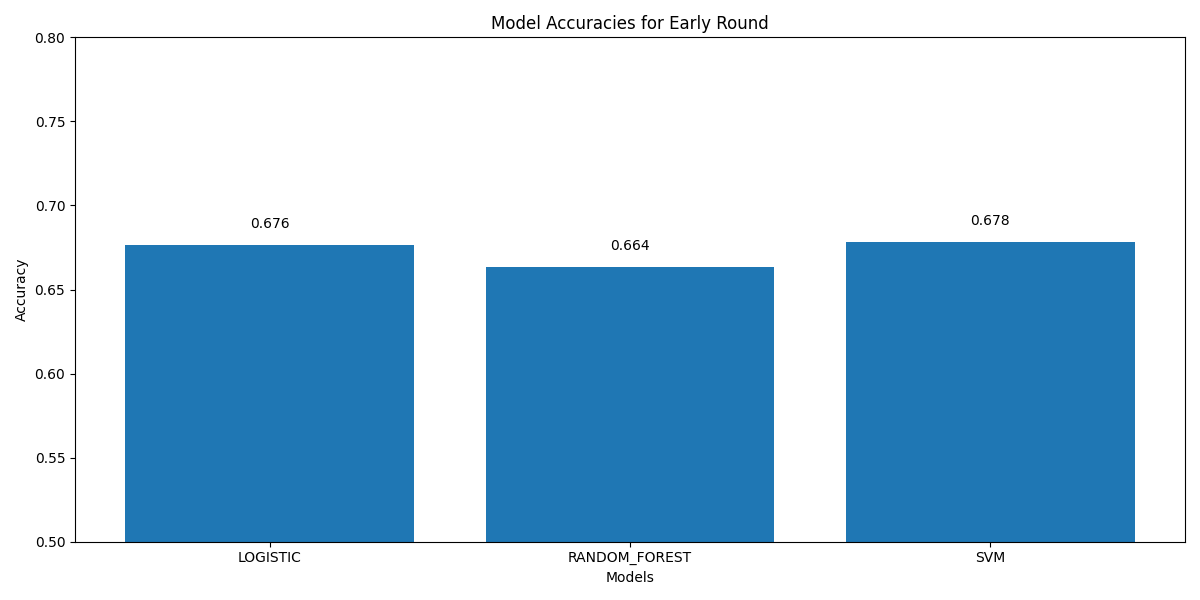
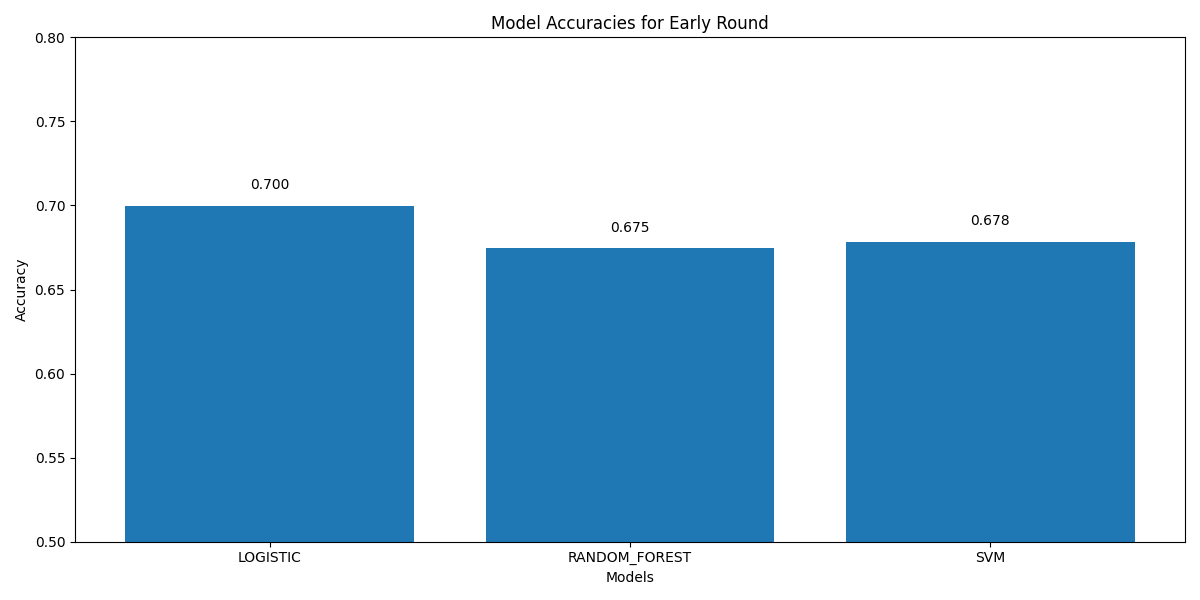
Saving what I have in case AI code breaks it

Changed region(s): [[0.0925, 0.3, 0.37, 0.42], [0.4008, 0.36, 0.6475, 0.45]]

diff --git a/Testing/main.py b/Testing/main.py
@@ -99,22 +99,14 @@ for idx, row in tourney_results.iterrows():
             'Team1_AvgOppPoints': winner_feat['AvgOppPoints'],
             'Team1_SeedNum': winner_feat['SeedNum'],
             'Team1_SeedWin%': seed_results.loc[winner_feat['SeedNum'].astype(int), "WIN%"],
-            'Team1_SeedR64%': seed_results.loc[winner_feat['SeedNum'].astype(int), "R64%"],
-            'Team1_SeedR32%': seed_results.loc[winner_feat['SeedNum'].astype(int), "R32%"],
-            'Team1_SeedS16%': seed_results.loc[winner_feat['SeedNum'].astype(int), "S16%"],
-            'Team1_SeedE8%': seed_results.loc[winner_feat['SeedNum'].astype(int), "E8%"],
-            'Team1_SeedF4%': seed_results.loc[winner_feat['SeedNum'].astype(int), "F4%"],
-            'Team1_SeedF2%': seed_results.loc[winner_feat['SeedNum'].astype(int), "F2%"],
+            'Team1_SeedR1%': seed_results.loc[winner_feat['SeedNum'].astype(int), "R64%"],
+            'Team1_SeedR2%': seed_results.loc[winner_feat['SeedNum'].astype(int), "R32%"],
             'Team2_AvgPoints': loser_feat['AvgPoints'],
             'Team2_AvgOppPoints': loser_feat['AvgOppPoints'],
             'Team2_SeedNum': loser_feat['SeedNum'],
             'Team2_SeedWin%': seed_results.loc[loser_feat['SeedNum'].astype(int), "WIN%"],
-            'Team2_SeedR64%': seed_results.loc[loser_feat['SeedNum'].astype(int), "R64%"],
-            'Team2_SeedR32%': seed_results.loc[loser_feat['SeedNum'].astype(int), "R32%"],
-            'Team2_SeedS16%': seed_results.loc[loser_feat['SeedNum'].astype(int), "S16%"],
-            'Team2_SeedE8%': seed_results.loc[loser_feat['SeedNum'].astype(int), "E8%"],
-            'Team2_SeedF4%': seed_results.loc[loser_feat['SeedNum'].astype(int), "F4%"],
-            'Team2_SeedF2%': seed_results.loc[loser_feat['SeedNum'].astype(int), "F2%"],
+            'Team2_SeedR1%': seed_results.loc[loser_feat['SeedNum'].astype(int), "R64%"],
+            'Team2_SeedR2%': seed_results.loc[loser_feat['SeedNum'].astype(int), "R32%"],
             'Target': 1
         })
         
@@ -125,22 +117,14 @@ for idx, row in tourney_results.iterrows():
             'Team1_AvgOppPoints': loser_feat['AvgOppPoints'],
             'Team1_SeedNum': loser_feat['SeedNum'],
             'Team1_SeedWin%': seed_results.loc[loser_feat['SeedNum'].astype(int), "WIN%"],
-            'Team1_SeedR64%': seed_results.loc[loser_feat['SeedNum'].astype(int), "R64%"],
-            'Team1_SeedR32%': seed_results.loc[loser_feat['SeedNum'].astype(int), "R32%"],
-            'Team1_SeedS16%': seed_results.loc[loser_feat['SeedNum'].astype(int), "S16%"],
-            'Team1_SeedE8%': seed_results.loc[loser_feat['SeedNum'].astype(int), "E8%"],
-            'Team1_SeedF4%': seed_results.loc[loser_feat['SeedNum'].astype(int), "F4%"],
-            'Team1_SeedF2%': seed_results.loc[loser_feat['SeedNum'].astype(int), "F2%"],
+            'Team1_SeedR1%': seed_results.loc[loser_feat['SeedNum'].astype(int), "R64%"],
+            'Team1_SeedR2%': seed_results.loc[loser_feat['SeedNum'].astype(int), "R32%"],
             'Team2_AvgPoints': winner_feat['AvgPoints'],
             'Team2_AvgOppPoints': winner_feat['AvgOppPoints'],
             'Team2_SeedNum': winner_feat['SeedNum'],
             'Team2_SeedWin%': seed_results.loc[winner_feat['SeedNum'].astype(int), "WIN%"],
-            'Team2_SeedR64%': seed_results.loc[winner_feat['SeedNum'].astype(int), "R64%"],
-            'Team2_SeedR32%': seed_results.loc[winner_feat['SeedNum'].astype(int), "R32%"],
-            'Team2_SeedS16%': seed_results.loc[winner_feat['SeedNum'].astype(int), "S16%"],
-            'Team2_SeedE8%': seed_results.loc[winner_feat['SeedNum'].astype(int), "E8%"],
-            'Team2_SeedF4%': seed_results.loc[winner_feat['SeedNum'].astype(int), "F4%"],
-            'Team2_SeedF2%': seed_results.loc[winner_feat['SeedNum'].astype(int), "F2%"],
+            'Team2_SeedR1%': seed_results.loc[winner_feat['SeedNum'].astype(int), "R64%"],
+            'Team2_SeedR2%': seed_results.loc[winner_feat['SeedNum'].astype(int), "R32%"],
             'Target': 0
         })
 
@@ -153,53 +137,17 @@ print(training_df.head())
 # =============================================================================
 
 # Split features and target
-e_training_df = training_df.copy()
-e_training_df.drop(columns=["Team1_SeedS16%", "Team1_SeedE8%", "Team1_SeedF4%", "Team1_SeedF2%",
-                            "Team2_SeedS16%", "Team2_SeedE8%", "Team2_SeedF4%", "Team2_SeedF2%"])
+feature_cols = ['Team1_AvgPoints', 'Team1_AvgOppPoints', 'Team1_SeedNum',
+                'Team1_SeedWin%', 'Team1_SeedR1%', 'Team1_SeedR2%', 
+                'Team2_AvgPoints', 'Team2_AvgOppPoints', 'Team2_SeedNum', 
+                'Team2_SeedWin%', 'Team2_SeedR1%', 'Team2_SeedR2%']
+features = training_df[feature_cols]
+labels = training_df['Target']
 
-early_feature_cols = ['Team1_AvgPoints', 'Team1_AvgOppPoints', 'Team1_SeedNum',
-                'Team1_SeedWin%', 'Team1_SeedR64%', 'Team1_SeedR32%', 'Team2_AvgPoints',
-                'Team2_AvgOppPoints', 'Team2_SeedNum', 'Team2_SeedWin%', 
-                'Team2_SeedR64%', 'Team2_SeedR32%']
-early_features = e_training_df[early_feature_cols]
-e_labels = e_training_df['Target']
-
-e_X_train, e_X_test, e_y_train, e_y_test = train_test_split(early_features, e_labels, test_size=0.2, random_state=42)
+X_train, X_test, y_train, y_test = train_test_split(features, labels, test_size=0.2, random_state=42)
 scaler = StandardScaler()
-e_X_train_scaled = pd.DataFrame(scaler.fit_transform(e_X_train), columns=e_X_train.columns)
-e_X_test_scaled = pd.DataFrame(scaler.transform(e_X_test), columns=e_X_test.columns)
-
-m_training_df = training_df.copy()
-m_training_df.drop(columns=["Team1_SeedR64%", "Team1_SeedR32%", "Team1_SeedF4%", "Team1_SeedF2%",
-                            "Team2_SeedR64%", "Team2_SeedR32%", "Team2_SeedF4%", "Team2_SeedF2%"])
-
-middle_feature_cols = ['Team1_AvgPoints', 'Team1_AvgOppPoints', 'Team1_SeedNum',
-                'Team1_SeedWin%', 'Team1_SeedS16%', 'Team1_SeedE8%', 'Team2_AvgPoints',
-                'Team2_AvgOppPoints', 'Team2_SeedNum', 'Team2_SeedWin%',  'Team2_SeedS16%',
-                'Team2_SeedE8%']
-middle_features = m_training_df[middle_feature_cols]
-m_labels = m_training_df['Target']
-
-m_X_train, m_X_test, m_y_train, m_y_test = train_test_split(middle_features, m_labels, test_size=0.2, random_state=42)
-scaler = StandardScaler()
-m_X_train_scaled = pd.DataFrame(scaler.fit_transform(m_X_train), columns=m_X_train.columns)
-m_X_test_scaled = pd.DataFrame(scaler.transform(m_X_test), columns=m_X_test.columns)
-
-f_training_df = training_df.copy()
-f_training_df.drop(columns=["Team1_SeedR64%", "Team1_SeedR32%", "Team1_SeedS16%", "Team1_SeedE8%",
-                            "Team2_SeedR64%", "Team2_SeedR32%", "Team2_SeedS16%", "Team2_SeedE8%"])
-
-final_feature_cols = ['Team1_AvgPoints', 'Team1_AvgOppPoints', 'Team1_SeedNum',
-                'Team1_SeedWin%', 'Team1_SeedF4%', 'Team1_SeedF2%', 'Team2_AvgPoints',
-                'Team2_AvgOppPoints', 'Team2_SeedNum', 'Team2_SeedWin%',  'Team2_SeedF4%',
-                'Team2_SeedF2%']
-final_features = f_training_df[final_feature_cols]
-f_labels = f_training_df['Target']
-
-f_X_train, f_X_test, f_y_train, f_y_test = train_test_split(final_features, f_labels, test_size=0.2, random_state=42)
-scaler = StandardScaler()
-f_X_train_scaled = pd.DataFrame(scaler.fit_transform(f_X_train), columns=f_X_train.columns)
-f_X_test_scaled = pd.DataFrame(scaler.transform(f_X_test), columns=f_X_test.columns)
+X_train_scaled = pd.DataFrame(scaler.fit_transform(X_train), columns=X_train.columns)
+X_test_scaled = pd.DataFrame(scaler.transform(X_test), columns=X_test.columns)
 
 # Define model candidates for each round
 early_models = {
@@ -267,16 +215,71 @@ def evaluate_models(models, X_train, X_test, y_train, y_test, round_name):
     return best_model
 
 # Evaluate early round models (using only seed features)
-early_model = evaluate_models(early_models, e_X_train_scaled, e_X_test_scaled, 
-                            e_y_train, e_y_test, "Early Round")
+# X_train_scaled['Team1_R1%'] = seed_results.loc[X_train_scaled['Team1_SeedNum'].astype(int), "R64%"]
+# X_train_scaled['Team1_R2%'] = seed_results.loc[X_train_scaled['Team1_SeedNum'].astype(int), "R32%"]
+# X_train_scaled['Team2_R1%'] = seed_results.loc[X_train_scaled['Team2_SeedNum'].astype(int), "R64%"]
+# X_train_scaled['Team2_R2%'] = seed_results.loc[X_train_scaled['Team2_SeedNum'].astype(int), "R32%"]
+# X_test_scaled['Team1_R1%'] = seed_results.loc[X_test_scaled['Team1_SeedNum'].astype(int), "R64%"]
+# X_test_scaled['Team1_R2%'] = seed_results.loc[X_test_scaled['Team1_SeedNum'].astype(int), "R32%"]
+# X_test_scaled['Team2_R1%'] = seed_results.loc[X_test_scaled['Team2_SeedNum'].astype(int), "R64%"]
+# X_test_scaled['Team2_R2%'] = seed_results.loc[X_test_scaled['Team2_SeedNum'].astype(int), "R32%"]
+
+early_model = evaluate_models(early_models, X_train_scaled, X_test_scaled, 
+                            y_train, y_test, "Early Round")
+
+for index, row in X_train.iterrows():
+    X_train.at[index, 'Team1_SeedR1%'] = seed_results.at[row['Team1_SeedNum'].astype(int), "S16%"]
+    X_train.at[index, 'Team1_SeedR2%'] = seed_results.at[row['Team1_SeedNum'].astype(int), "E8%"]
+    X_train.at[index, 'Team2_SeedR1%'] = seed_results.at[row['Team2_SeedNum'].astype(int), "S16%"]
+    X_train.at[index, 'Team2_SeedR2%'] = seed_results.at[row['Team2_SeedNum'].astype(int), "E8%"]
+
+# X_train_scaled['Team1_R1%'] = seed_results.loc[X_train_scaled['Team1_SeedNum'].astype(int), "S16%"]
+# X_train_scaled['Team1_R2%'] = seed_results.loc[X_train_scaled['Team1_SeedNum'].astype(int), "E8%"]
+# X_train_scaled['Team2_R1%'] = seed_results.loc[X_train_scaled['Team2_SeedNum'].astype(int), "S16%"]
+# X_train_scaled['Team2_R2%'] = seed_results.loc[X_train_scaled['Team2_SeedNum'].astype(int), "E8%"]
+
+for index, row in X_test.iterrows():
+    X_test.at[index, 'Team1_SeedR1%'] = seed_results.at[row['Team1_SeedNum'].astype(int), "S16%"]
+    X_test.at[index, 'Team1_SeedR2%'] = seed_results.at[row['Team1_SeedNum'].astype(int), "E8%"]
+    X_test.at[index, 'Team2_SeedR1%'] = seed_results.at[row['Team2_SeedNum'].astype(int), "S16%"]
+    X_test.at[index, 'Team2_SeedR2%'] = seed_results.at[row['Team2_SeedNum'].astype(int), "E8%"]
+
+
+# X_test_scaled['Team1_R1%'] = seed_results.loc[X_test_scaled['Team1_SeedNum'].astype(int), "S16%"]
+# X_test_scaled['Team1_R2%'] = seed_results.loc[X_test_scaled['Team1_SeedNum'].astype(int), "E8%"]
+# X_test_scaled['Team2_R1%'] = seed_results.loc[X_test_scaled['Team2_SeedNum'].astype(int), "S16%"]
+# X_test_scaled['Team2_R2%'] = seed_results.loc[X_test_scaled['Team2_SeedNum'].astype(int), "E8%"]
 
 # Evaluate middle round models (using all features)
-middle_model = evaluate_models(middle_models, m_X_train_scaled, m_X_test_scaled, 
-                              m_y_train, m_y_test, "Middle Round")
+middle_model = evaluate_models(middle_models, X_train_scaled, X_test_scaled, 
+                              y_train, y_test, "Middle Round")
+
+for index, row in X_train.iterrows():
+    X_train.at[index, 'Team1_SeedR1%'] = seed_results.at[row['Team1_SeedNum'].astype(int), "F4%"]
+    X_train.at[index, 'Team1_SeedR2%'] = seed_results.at[row['Team1_SeedNum'].astype(int), "F2%"]
+    X_train.at[index, 'Team2_SeedR1%'] = seed_results.at[row['Team2_SeedNum'].astype(int), "F4%"]
+    X_train.at[index, 'Team2_SeedR2%'] = seed_results.at[row['Team2_SeedNum'].astype(int), "F2%"]
+
+
+# X_train['Team1_R1%'] = seed_results.loc[X_train['Team1_SeedNum'].astype(int), "F4%"]
+# X_train['Team1_R2%'] = seed_results.loc[X_train['Team1_SeedNum'].astype(int), "F2%"]
+# X_train['Team2_R1%'] = seed_results.loc[X_train['Team2_SeedNum'].astype(int), "F4%"]
+# X_train['Team2_R2%'] = seed_results.loc[X_train['Team2_SeedNum'].astype(int), "F2%"]
+
+for index, row in X_test.iterrows():
+    X_test.at[index, 'Team1_SeedR1%'] = seed_results.at[row['Team1_SeedNum'].astype(int), "F4%"]
+    X_test.at[index, 'Team1_SeedR2%'] = seed_results.at[row['Team1_SeedNum'].astype(int), "F2%"]
+    X_test.at[index, 'Team2_SeedR1%'] = seed_results.at[row['Team2_SeedNum'].astype(int), "F4%"]
+    X_test.at[index, 'Team2_SeedR2%'] = seed_results.at[row['Team2_SeedNum'].astype(int), "F2%"]
+
+# X_test['Team1_R1%'] = seed_results.loc[X_test['Team1_SeedNum'].astype(int), "F4%"]
+# X_test['Team1_R2%'] = seed_results.loc[X_test['Team1_SeedNum'].astype(int), "F2%"]
+# X_test['Team2_R1%'] = seed_results.loc[X_test['Team2_SeedNum'].astype(int), "F4%"]
+# X_test['Team2_R2%'] = seed_results.loc[X_test['Team2_SeedNum'].astype(int), "F2%"]
 
 # Evaluate final round models (using all features)
-final_model = evaluate_models(final_models, f_X_train_scaled, f_X_test_scaled, 
-                             f_y_train, f_y_test, "Final Round")
+final_model = evaluate_models(final_models, X_train_scaled, X_test_scaled, 
+                             y_train, y_test, "Final Round")
 
 # =============================================================================
 # 4. Simulation and Bracket Prediction
@@ -306,22 +309,14 @@ class Bracket:
                 'Team1_AvgOppPoints': team1_feat['AvgOppPoints'],
                 'Team1_SeedNum': team1_feat['SeedNum'],
                 'Team1_SeedWin%': self.seed_data.loc[team1_feat['SeedNum'].astype(int), 'WIN%'],
-                'Team1_SeedR64%': self.seed_data.loc[team1_feat['SeedNum'].astype(int), 'R64%'],
-                'Team1_SeedR32%': self.seed_data.loc[team1_feat['SeedNum'].astype(int), 'R32%'],
-                'Team1_SeedS16%': self.seed_data.loc[team1_feat['SeedNum'].astype(int), 'S16%'],
-                'Team1_SeedE8%': self.seed_data.loc[team1_feat['SeedNum'].astype(int), 'E8%'],
-                'Team1_SeedF4%': self.seed_data.loc[team1_feat['SeedNum'].astype(int), 'F4%'],
-                'Team1_SeedF2%': self.seed_data.loc[team1_feat['SeedNum'].astype(int), 'F2%'],
+                'Team1_SeedR1%': self.seed_data.loc[team1_feat['SeedNum'].astype(int), 'R64%'],
+                'Team1_SeedR2%': self.seed_data.loc[team1_feat['SeedNum'].astype(int), 'R32%'],
                 'Team2_AvgPoints': team2_feat['AvgPoints'],
                 'Team2_AvgOppPoints': team2_feat['AvgOppPoints'],
                 'Team2_SeedNum': team2_feat['SeedNum'],
                 'Team2_SeedWin%': self.seed_data.loc[team2_feat['SeedNum'].astype(int), 'WIN%'],
-                'Team2_SeedR64%': self.seed_data.loc[team2_feat['SeedNum'].astype(int), 'R64%'],
-                'Team2_SeedR32%': self.seed_data.loc[team2_feat['SeedNum'].astype(int), 'R32%'],
-                'Team2_SeedS16%': self.seed_data.loc[team2_feat['SeedNum'].astype(int), 'S16%'],
-                'Team2_SeedE8%': self.seed_data.loc[team2_feat['SeedNum'].astype(int), 'E8%'],
-                'Team2_SeedF4%': self.seed_data.loc[team2_feat['SeedNum'].astype(int), 'F4%'],
-                'Team2_SeedF2%': self.seed_data.loc[team2_feat['SeedNum'].astype(int), 'F2%'],
+                'Team2_SeedR1%': self.seed_data.loc[team2_feat['SeedNum'].astype(int), 'R64%'],
+                'Team2_SeedR2%': self.seed_data.loc[team2_feat['SeedNum'].astype(int), 'R32%']
             }
         ])
         
@@ -555,21 +550,64 @@ class TournamentPredictor:
         self.scaler = StandardScaler()
     
     def train(self, X_train, y_train, X_test, y_test, round_info):
-        # Extract seed features for early round model
-        early_features = X_train[['Team1_SeedNum', 'Team2_SeedNum']]
-        early_features_test = X_test[['Team1_SeedNum', 'Team2_SeedNum']]
+        # Extract seed features for early round mode
         
         # Evaluate early round model
-        early_preds = self.early_model.predict(early_features_test)
+        early_preds = self.early_model.predict(X_test)
         early_score = accuracy_score(y_test, early_preds)
         print(f"Early Round Model Score: {early_score}")
         print(classification_report(y_test, early_preds))
+
+        for index, row in X_train.iterrows():
+            X_train.at[index, 'Team1_SeedR1%'] = seed_results.at[row['Team1_SeedNum'].astype(int), "S16%"]
+            X_train.at[index, 'Team1_SeedR2%'] = seed_results.at[row['Team1_SeedNum'].astype(int), "E8%"]
+            X_train.at[index, 'Team2_SeedR1%'] = seed_results.at[row['Team2_SeedNum'].astype(int), "S16%"]
+            X_train.at[index, 'Team2_SeedR2%'] = seed_results.at[row['Team2_SeedNum'].astype(int), "E8%"]
+
+        # X_train['Team1_R1%'] = seed_results.loc[X_train['Team1_SeedNum'].astype(int), "S16%"]
+        # X_train['Team1_R2%'] = seed_results.loc[X_train['Team1_SeedNum'].astype(int), "E8%"]
+        # X_train['Team2_R1%'] = seed_results.loc[X_train['Team2_SeedNum'].astype(int), "S16%"]
+        # X_train['Team2_R2%'] = seed_results.loc[X_train['Team2_SeedNum'].astype(int), "E8%"]
+
+        for index, row in X_test.iterrows():
+            X_test.at[index, 'Team1_SeedR1%'] = seed_results.at[row['Team1_SeedNum'].astype(int), "S16%"]
+            X_test.at[index, 'Team1_SeedR2%'] = seed_results.at[row['Team1_SeedNum'].astype(int), "E8%"]
+            X_test.at[index, 'Team2_SeedR1%'] = seed_results.at[row['Team2_SeedNum'].astype(int), "S16%"]
+            X_test.at[index, 'Team2_SeedR2%'] = seed_results.at[row['Team2_SeedNum'].astype(int), "E8%"]
+        
+        # X_test['Team1_R1%'] = seed_results.loc[X_test['Team1_SeedNum'].astype(int), "S16%"]
+        # X_test['Team1_R2%'] = seed_results.loc[X_test['Team1_SeedNum'].astype(int), "E8%"]
+        # X_test['Team2_R1%'] = seed_results.loc[X_test['Team2_SeedNum'].astype(int), "S16%"]
+        # X_test['Team2_R2%'] = seed_results.loc[X_test['Team2_SeedNum'].astype(int), "E8%"]
         
         # Evaluate middle round model
         middle_preds = self.middle_model.predict(X_test)
         middle_score = accuracy_score(y_test, middle_preds)
         print(f"Middle Round Model Score: {middle_score}")
         print(classification_report(y_test, middle_preds))
+
+        for index, row in X_train.iterrows():
+            X_train.at[index, 'Team1_SeedR1%'] = seed_results.at[row['Team1_SeedNum'].astype(int), "F4%"]
+            X_train.at[index, 'Team1_SeedR2%'] = seed_results.at[row['Team1_SeedNum'].astype(int), "F2%"]
+            X_train.at[index, 'Team2_SeedR1%'] = seed_results.at[row['Team2_SeedNum'].astype(int), "F4%"]
+            X_train.at[index, 'Team2_SeedR2%'] = seed_results.at[row['Team2_SeedNum'].astype(int), "F2%"]
+        
+
+        # X_train['Team1_R1%'] = seed_results.loc[X_train['Team1_SeedNum'].astype(int), "F4%"]
+        # X_train['Team1_R2%'] = seed_results.loc[X_train['Team1_SeedNum'].astype(int), "F2%"]
+        # X_train['Team2_R1%'] = seed_results.loc[X_train['Team2_SeedNum'].astype(int), "F4%"]
+        # X_train['Team2_R2%'] = seed_results.loc[X_train['Team2_SeedNum'].astype(int), "F2%"]
+
+        for index, row in X_test.iterrows():
+            X_test.at[index, 'Team1_SeedR1%'] = seed_results.at[row['Team1_SeedNum'].astype(int), "F4%"]
+            X_test.at[index, 'Team1_SeedR2%'] = seed_results.at[row['Team1_SeedNum'].astype(int), "F2%"]
+            X_test.at[index, 'Team2_SeedR1%'] = seed_results.at[row['Team2_SeedNum'].astype(int), "F4%"]
+            X_test.at[index, 'Team2_SeedR2%'] = seed_results.at[row['Team2_SeedNum'].astype(int), "F2%"]
+
+        # X_test['Team1_R1%'] = seed_results.loc[X_test['Team1_SeedNum'].astype(int), "F4%"]
+        # X_test['Team1_R2%'] = seed_results.loc[X_test['Team1_SeedNum'].astype(int), "F2%"]
+        # X_test['Team2_R1%'] = seed_results.loc[X_test['Team2_SeedNum'].astype(int), "F4%"]
+        # X_test['Team2_R2%'] = seed_results.loc[X_test['Team2_SeedNum'].astype(int), "F2%"]
         
         # Evaluate final round model
         final_preds = self.final_model.predict(X_test)
@@ -619,10 +657,14 @@ class TournamentPredictor:
 
 # Load round information for training
 tourney_rounds = pd.read_csv(os.path.join(project_root, 'MarchMadnessData', 'MNCAATourneyCompactResults.csv'))
-tourney_rounds['Round'] = (tourney_rounds['DayNum'] - 134) // 2 + 1  # Convert DayNum to tournament round
+season_to_simulate = 2024  # Current season
+if season_to_simulate != 2021:
+    tourney_rounds['Round'] = (tourney_rounds['DayNum'] - 134) // 2 + 1  # Convert DayNum to tournament round
+else:
+    tourney_rounds['Round'] = (tourney_rounds['DayNum'] - 136) // 2 + 1
 
 # Create and train the tournament predictor with PyCaret models
-season_to_simulate = 2024  # Current season
+
 predictor = TournamentPredictor(season_to_simulate, early_model, middle_model, final_model)
 predictor.train(X_train_scaled, y_train, X_test_scaled, y_test, tourney_rounds)
 
